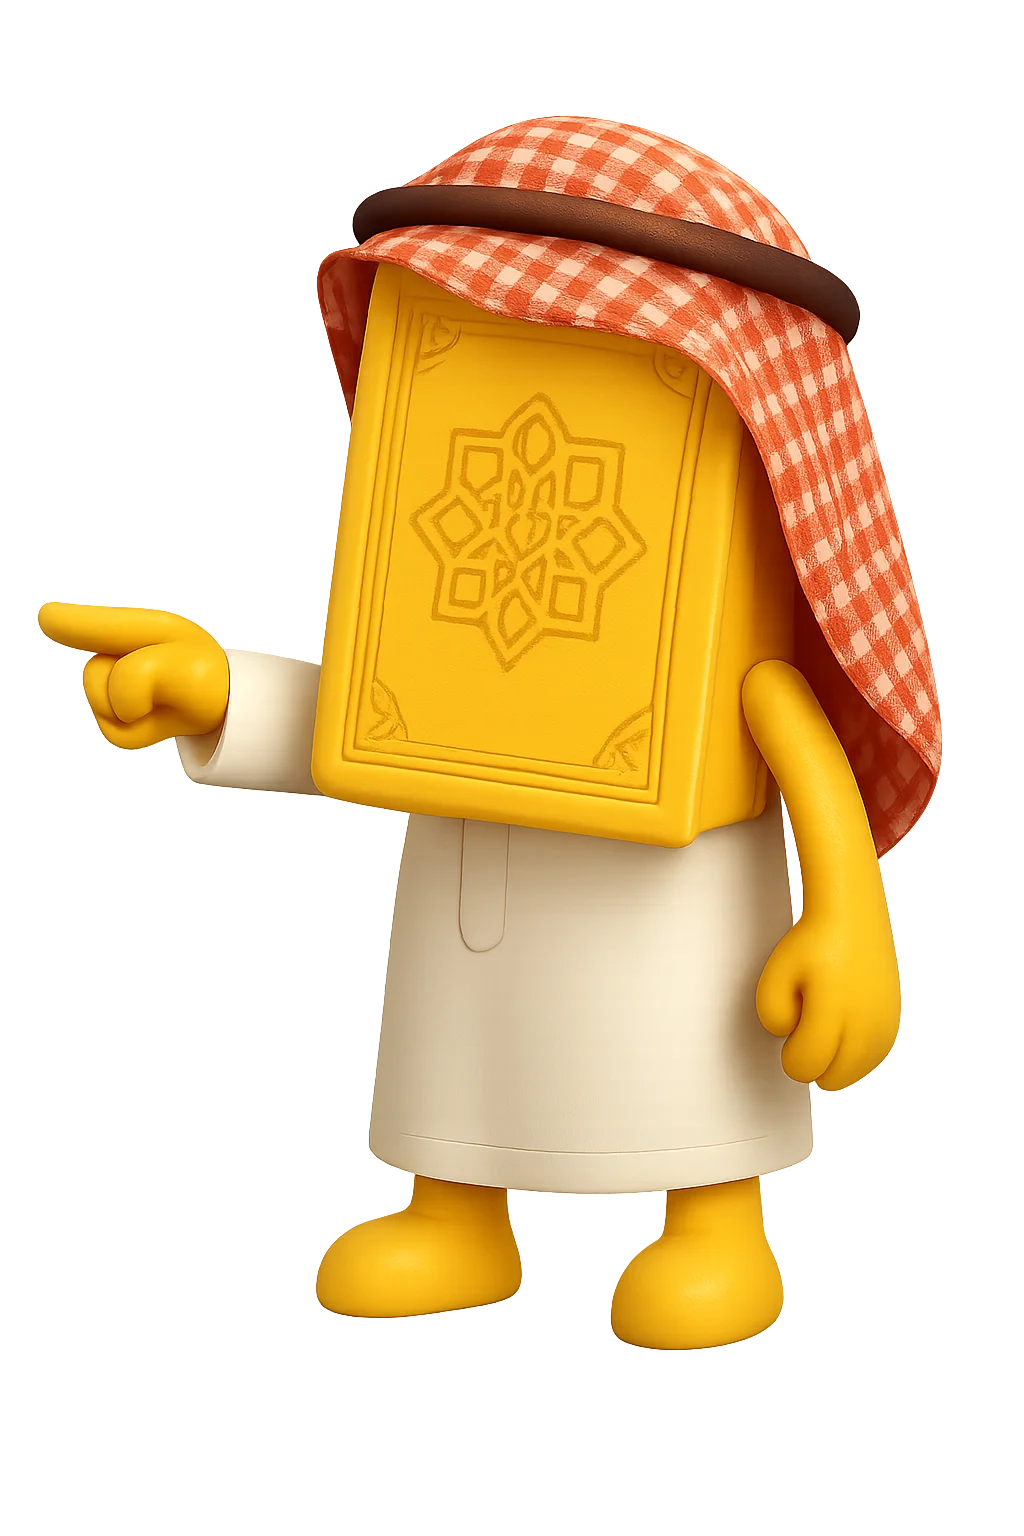
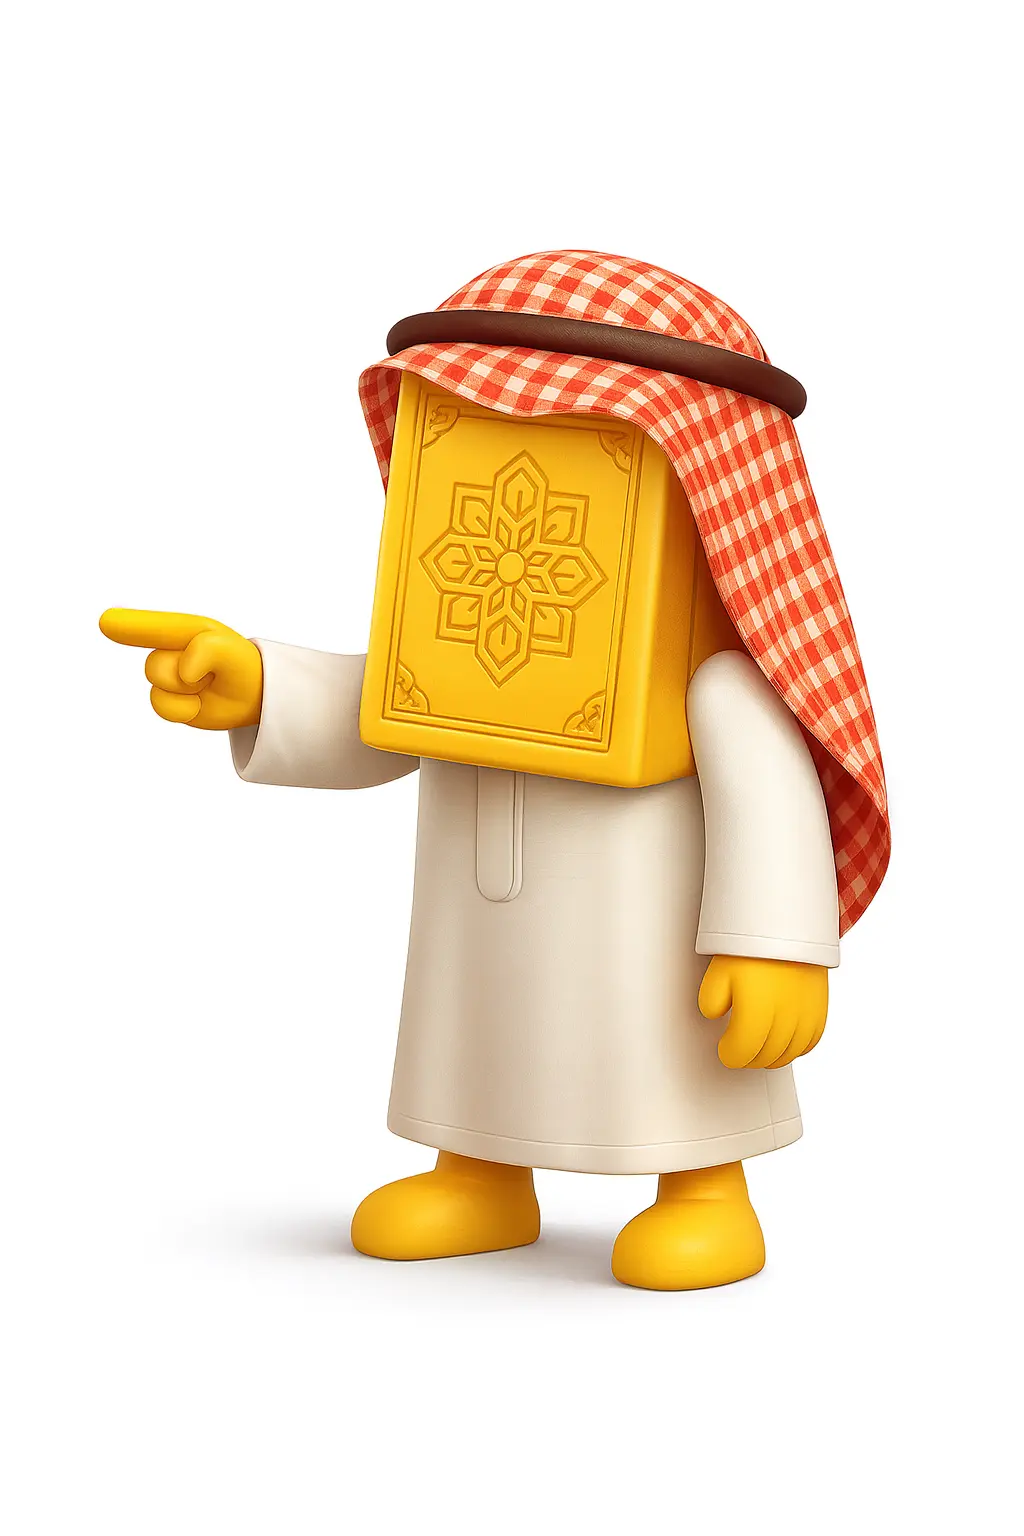
Update mascot images and references across the application
Replace mascot_dua with mascot_pointing_v2, update mascot_pointing to mascot_teaching, and rename mascot_teaching to mascot_pointing, with associated file and import path adjustments.

Replit-Commit-Author: Agent
Replit-Commit-Session-Id: 6d5598f2-346e-4e95-8798-d73afc4fe6fc
Replit-Commit-Checkpoint-Type: full_checkpoint
Replit-Commit-Event-Id: 6e7367b4-6e25-4853-b2ed-e5ed5e6d90ca
Replit-Commit-Screenshot-Url: https://storage.googleapis.com/screenshot-production-us-central1/9c3573f1-8b34-4106-8b9e-049cb0751aae/6d5598f2-346e-4e95-8798-d73afc4fe6fc/u7V2B0c

diff --git a/src/assets/assets.js b/src/assets/assets.js
@@ -5,7 +5,6 @@
 import mascot_boss from "./mascots/mascot_boss.webp";
 import mascot_congratulation from "./mascots/mascot_congratulation.webp";
 import mascot_defeated from "./mascots/mascot_defeated.webp";
-import mascot_dua from "./mascots/mascot_dua.webp";
 import mascot_onboarding from "./mascots/mascot_onboarding.webp";
 import mascot_pointing from "./mascots/mascot_pointing.webp";
 import mascot_reading from "./mascots/mascot_reading.webp";
@@ -18,7 +17,7 @@ import mascot_waving from "./mascots/mascot_waving.webp";
 import mascot_sitting_v2 from "./mascots/mascot_sitting_v2.webp";
 import mascot_pointing_v2 from "./mascots/mascot_pointing_v2.webp";
 import mascot_reading_v2 from "./mascots/mascot_reading_v2.webp";
-import mascot_teaching from "./mascots/mascot_teaching.webp";
+import mascot_teaching from "./mascots/mascot_pointing.webp";
 import mascot_quiz from "./mascots/mascot_quiz.webp";
 import mascot_scholar from "./mascots/mascot_scholar.webp";
 import mascot_locked from "./mascots/mascot_locked.webp";
@@ -63,7 +62,6 @@ const assets = {
     mascot_boss,
     mascot_congratulation,
     mascot_defeated,
-    mascot_dua,
     mascot_onboarding,
     mascot_pointing,
     mascot_reading,

diff --git a/src/components/dailyquest/DailyQuestCard.jsx b/src/components/dailyquest/DailyQuestCard.jsx
@@ -3,7 +3,7 @@ import { useNavigate } from "../../hooks/useNavigate";
 import { useDailyQuestStore } from "../../store/dailyQuestStore";
 import DailyQuestExplainerModal from "./DailyQuestExplainerModal";
 import DailyQuestCountdown from "./DailyQuestCountdown";
-import DailyQuestMascot from "../../assets/mascots/mascot_pointing.webp";
+import DailyQuestMascot from "../../assets/mascots/mascot_teaching.webp";
 
 export default function DailyQuestCard() {
   const navigate = useNavigate();

diff --git a/src/components/events/CountdownModal.jsx b/src/components/events/CountdownModal.jsx
@@ -23,7 +23,7 @@ export default function CountdownModal({ onComplete }) {
       <div className="countdown-modal">
         {/* Zayd Animation */}
         <div className="countdown-mascot">
-          <img src={assets.mascots.mascot_dua} alt="Mascot" className="countdown-zayd" />
+          <img src={assets.mascots.mascot_pointing_v2} alt="Mascot" className="countdown-zayd" />
         </div>
 
         {/* Countdown Number */}

diff --git a/src/pages/DailyQuestGame.jsx b/src/pages/DailyQuestGame.jsx
@@ -271,7 +271,7 @@ export default function DailyQuestGame() {
       {/* Thinking Mascot */}
       <div style={{ textAlign: "center", marginBottom: "20px" }}>
         <img 
-          src={assets.mascots.mascot_dua} 
+          src={assets.mascots.mascot_pointing_v2} 
           alt="Mascot"
           style={{
             width: "80px",

diff --git a/src/pages/challenges/ChallengeGame.jsx b/src/pages/challenges/ChallengeGame.jsx
@@ -518,7 +518,7 @@ export default function ChallengeGame() {
       {/* Thinking Mascot */}
       <div style={{ textAlign: "center", marginBottom: "20px" }}>
         <img 
-          src={assets.mascots.mascot_dua} 
+          src={assets.mascots.mascot_pointing_v2} 
           alt="Mascot"
           style={{
             width: "80px",

diff --git a/src/pages/Revise.jsx b/src/pages/Revise.jsx
@@ -352,7 +352,7 @@ export default function Revise() {
             
             {/* Thinking Mascot */}
             <img 
-              src={assets.mascots.mascot_dua} 
+              src={assets.mascots.mascot_pointing_v2} 
               alt="Mascot"
               style={{
                 width: "80px",

diff --git a/src/pages/EventQuiz.jsx b/src/pages/EventQuiz.jsx
@@ -260,7 +260,7 @@ export default function EventQuiz() {
 
           {/* Mascot */}
           <div className="quiz-mascot">
-            <img src={assets.mascots.mascot_dua} alt="Mascot" />
+            <img src={assets.mascots.mascot_pointing_v2} alt="Mascot" />
           </div>
         </>
       )}
